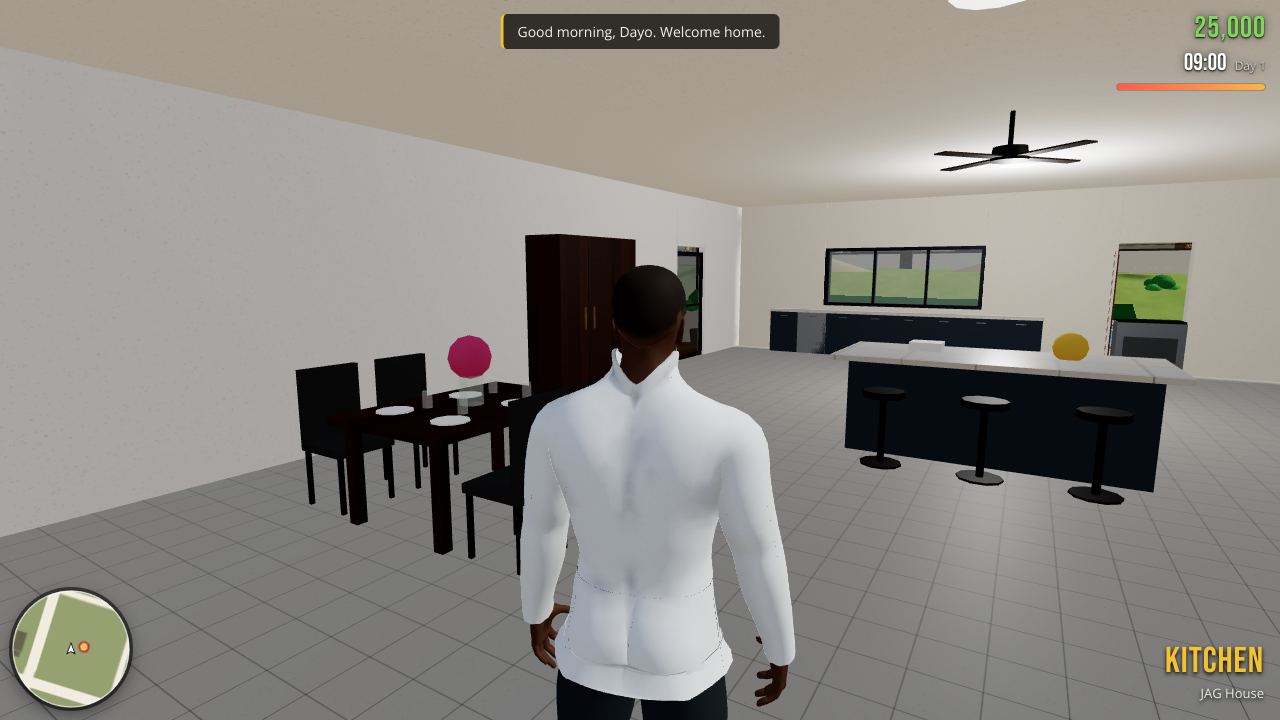
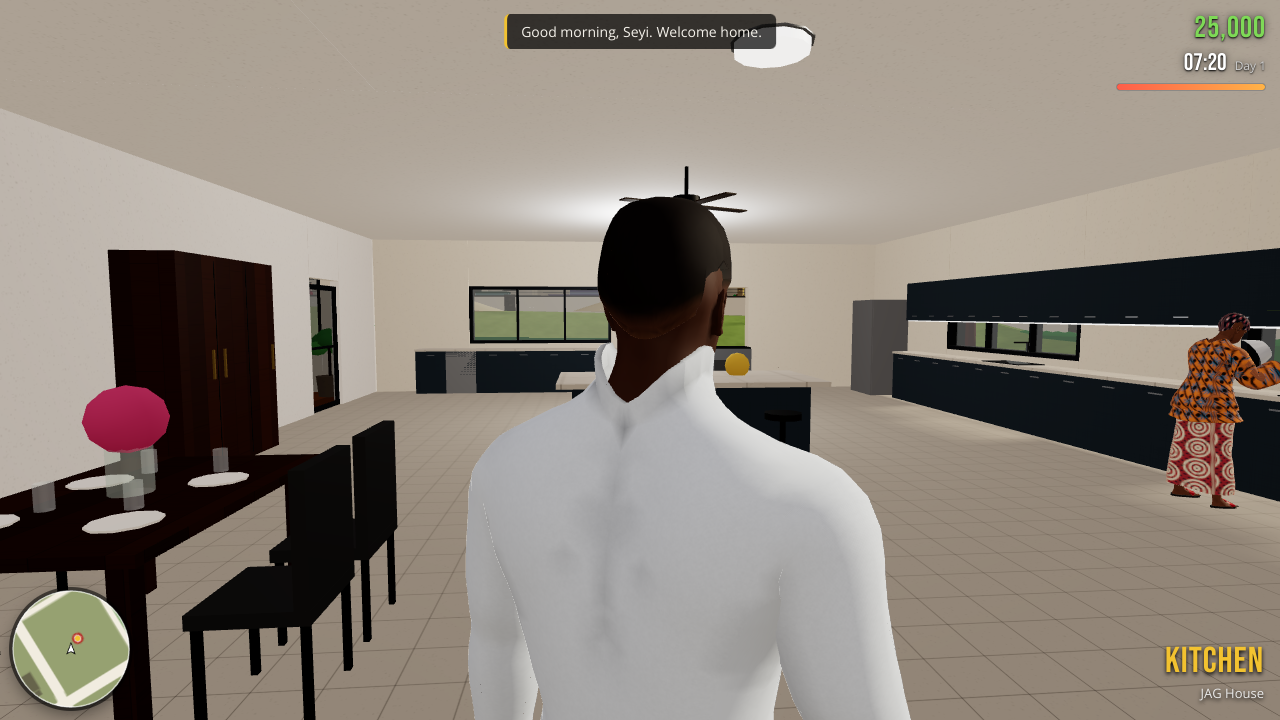
README: VORA CITY game section + screenshots; workflow: current action majors; shots: kitchen framing, household report; night interior tone

diff --git a/src/game/main.ts b/src/game/main.ts
@@ -258,7 +258,7 @@ async function main() {
       // interiors only get sky/ambient light (the sun is shadowed) → lift the ambient term indoors
       indoorMix += ((indoor ? 1 : 0) - indoorMix) * Math.min(1, dt * 3);
       const nightNow = isNight() ? 1 : 0;
-      sky.ambient.intensity = baseAmbient() + indoorMix * (0.7 + nightNow * 2.1); sky.hemi.intensity = baseHemi() + indoorMix * (0.35 + nightNow * 0.4);
+      sky.ambient.intensity = baseAmbient() + indoorMix * (0.7 + nightNow * 1.7); sky.hemi.intensity = baseHemi() + indoorMix * (0.35 + nightNow * 0.3);
       const warm = Math.min(1, indoorMix * (0.4 + nightNow * 0.55));
       sky.ambient.color.copy(ambientRef.color).lerp(warmAmbient, warm);
       sky.hemi.color.copy(ambientRef.hemiColor).lerp(warmAmbient, warm); sky.hemi.groundColor.copy(ambientRef.hemiGround).lerp(warmGround, warm);

diff --git a/README.md b/README.md
@@ -1,4 +1,39 @@
-# V-WORLD · Vora City
+# VORA CITY · by JAG
+
+**A landscape mobile open-world game set in Vora City** — the fictional West-African-inspired city built in this
+repository. Create your own protagonist, wake up in your mansion in North Heights, meet your household and walk out
+into a living city. Built in APK milestones; **APK 1 – "App + Home"** is the current build and is produced by GitHub
+Actions on every push (`Actions → Android APK → Artifacts`). See **[docs/GAME.md](docs/GAME.md)** for the game design,
+controls, architecture and road-map.
+
+| | |
+|---|---|
+| ![title](docs/screenshots/game/title.png) *live title — the camera orbits your compound* | ![create](docs/screenshots/game/create.png) *character creation on the roof terrace* |
+| ![wake up](docs/screenshots/game/wake-up.png) *Day 1, 07:12 — wake up in the master bedroom* | ![landing](docs/screenshots/game/landing-stairs.png) *the landing and stairs* |
+| ![living room](docs/screenshots/game/living-room.png) *living room — housekeeper sweeping, a friend on the sofa* | ![dining](docs/screenshots/game/dining.png) *dining room — the steward* |
+| ![kitchen](docs/screenshots/game/kitchen.png) *kitchen* | ![forecourt](docs/screenshots/game/forecourt-fountain.png) *forecourt fountain and the owner's cars* |
+| ![gate](docs/screenshots/game/gate.png) *the gate, the gateman and the gatehouse* | ![carport](docs/screenshots/game/carport.png) *carport — Range Rover, G-Wagon, saloon, pickup, danfo, okada* |
+| ![pool](docs/screenshots/game/pool.png) *pool deck* | ![night pool](docs/screenshots/game/night-pool.png) *21:00 — pool lights, the city's windows come on* |
+| ![roof terrace](docs/screenshots/game/roof-terrace.png) *roof terrace at dusk* | ![street](docs/screenshots/game/street-outside.png) *outside the gate — Garden Terrace, North Heights* |
+
+```
+JAG logo → loading → live title → New game: create your character → wake up at home → explore
+```
+
+* **Runs on any phone** — Lite / Standard / High presets (auto-detected), landscape, touch stick + buttons; also
+  playable in a desktop browser (`npm run dev`, WASD + mouse).
+* **Your home** — JAG House, 1 Ridge Street: two storeys, roof terrace, pool, fountain, gatehouse, carport, staff
+  quarters, generator house; working doors, sliders, fans, TVs, beds (sleep → next day), fridge (eat), wardrobes
+  (change outfit), the main gate and the generator ("Up NEPA").
+* **Your household** — gateman, security, driver, housekeeper, cook, gardener, steward, night guard, a friend and a
+  guest, cast from the Phase 2 population, each at their post doing their job; walk up and talk to them.
+* **HUD** — radar, ₦ cash, clock + day, health, place cards, interaction prompts; pause menu with save and settings.
+* **Android** — Capacitor shell (`android/`, `com.jag.voracity`), immersive landscape, JAG splash and icon; the debug
+  APK (~55 MB) is built by `.github/workflows/android.yml`.
+
+---
+
+# V-WORLD · Vora City (the world under the game)
 
 A continuous, data-driven 3D city for the fictional West-African-inspired country **V**. This repository holds the
 *physical foundation* of the world — terrain, water, a connected road network, blocks and parcels, ~1,260 buildings in
@@ -102,12 +137,15 @@ committed (they rebuild deterministically); all screenshots above are real headl
 ```bash
 npm install
 npm run generate     # rebuild data/city.json (deterministic; ~1 s)
-npm run dev          # viewer on http://localhost:5173  (?q=low|medium|high  &h=<hour>)
+npm run characters   # generate the humans into public/assets/characters (gitignored; needed by the game and the crowd)
+npm run dev          # game on http://localhost:5173/  · city viewer on /city.html (?q=low|medium|high &h=<hour>) · lineup on /characters.html
 npm run test         # vitest: determinism, graph integrity, no buildings on roads, …
 npm run typecheck
-npm run build        # production bundle in dist/
+npm run build        # production bundle in dist/ (game + viewer + lineup)
+npx cap sync android && (cd android && ./gradlew assembleDebug)   # local APK (JDK 21 + Android SDK); CI does this on every push
 npm run map          # docs/map.png plan render (needs python3 + Pillow)
-node scripts/screenshot.mjs   # headless Chromium (SwiftShader) screenshots + runtime smoke test → docs/screenshots
+node scripts/game-shot.mjs    # headless game screenshots (title → create → wake → rooms/compound) → docs/screenshots/game  (SHOTS=…, QUALITY=…, MOBILE=1)
+node scripts/screenshot.mjs   # headless Chromium (SwiftShader) city-viewer screenshots + runtime smoke test → docs/screenshots
 #   env: VIEWS=stadium,night-central  QUALITY=low|medium|high  SHOT_MOBILE=1 (phone emulation)  SHOT_W/SHOT_H
 ```
 
@@ -135,9 +173,9 @@ node scripts/screenshot.mjs   # headless Chromium (SwiftShader) screenshots + ru
 
 ## Scope
 
-In scope: the exterior world (terrain, water, roads, blocks, buildings, landmarks, public space, street detail,
-materials, lighting, time-of-day, LOD/performance) and, since Phase 2, the human assets (bodies, wardrobe, hair,
-props, animation clips, population manifest) plus an ambient sidewalk crowd. Out of scope for this stage and
-deliberately left as clean extension points: interiors, gameplay, economy, multiplayer, NPC life simulation,
-missions and traffic AI. See `docs/REPORT.md` for the change log, verification results and known limitations and
-`docs/CHARACTERS.md` for the character pipeline in detail.
+Phase 1 delivered the exterior world (terrain, water, roads, blocks, buildings, landmarks, public space, street detail,
+materials, lighting, time-of-day, LOD/performance); Phase 2 the human assets (bodies, wardrobe, hair, props,
+animation clips, population manifest) and an ambient sidewalk crowd; Phase 3 turns it into the game, milestone by
+milestone — **APK 1 App + Home** (this build) → APK 2 Alive (mocap, schedules, traffic, animated world, cinematic) →
+APK 3 Ride & earn → APK 4 Wanted (police, arrests) → APK 5 Story, then multiplayer and player houses. Details and the
+honest list of limitations: `docs/GAME.md`; earlier phases: `docs/REPORT.md`, `docs/CHARACTERS.md`.
